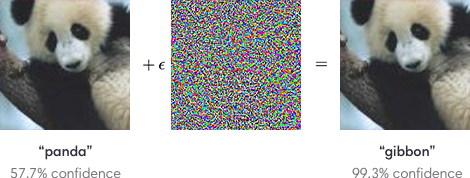
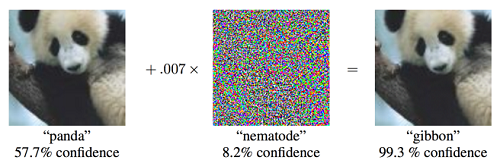
Added more images and cleaned one up.

diff --git a/index.md b/index.md
@@ -88,13 +88,15 @@ where
 
 The basic idea is to use the gradients of the loss with respect to the input image to add small perturbations to the original image to maximize that loss.  Note that the model is already trained so the parameters, &theta;, are fixed in the calculation of the loss.  FGSM is simple and fast.  We will implement a FGSM attack in the tutorial.
 
+![](fgsm.png)
+
 ## Example Defense
 
 [Here](https://github.com/Trusted-AI/adversarial-robustness-toolbox/wiki/ART-Defences) is a list of defenses implemented in ART.
 
 The simplest and one of the first defenses is *Adversarial Training*.  The idea is to augment the training data with adversarial examples generated from the attack.
 
-<font size="5" color="red">Add Image</font>
+![](adversarial-training.jpg)
 
 ## Why do we care?
 
